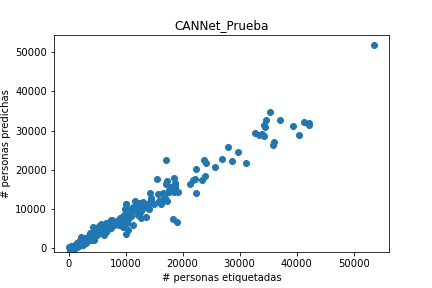
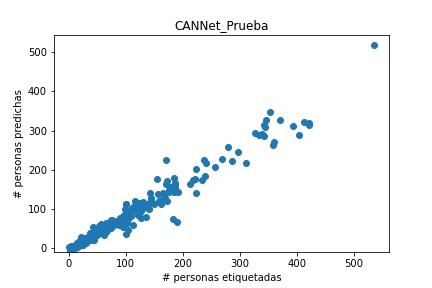
Updated normalization parameter

diff --git a/generar_regression_plot.py b/generar_regression_plot.py
@@ -27,7 +27,10 @@ for fil in files:
     with open(filename, 'rb') as handle: 
         b = pickle.load(handle)
 
-
+    if title[:4] in ['UNet', 'CANN', 'CSRN']:
+        norm = 1/100
+    else:
+        norm = 1
     #%% 
 
     if type(b['yreal']) is list:
@@ -37,6 +40,8 @@ for fil in files:
         yreal = b['yreal']
         ypredicha = b['ypredicha']
 
+    yreal *= norm
+    ypredicha *=norm 
     fig, ax = plt.subplots()
     ax.scatter(yreal, ypredicha)
     ax.set_title(title)
